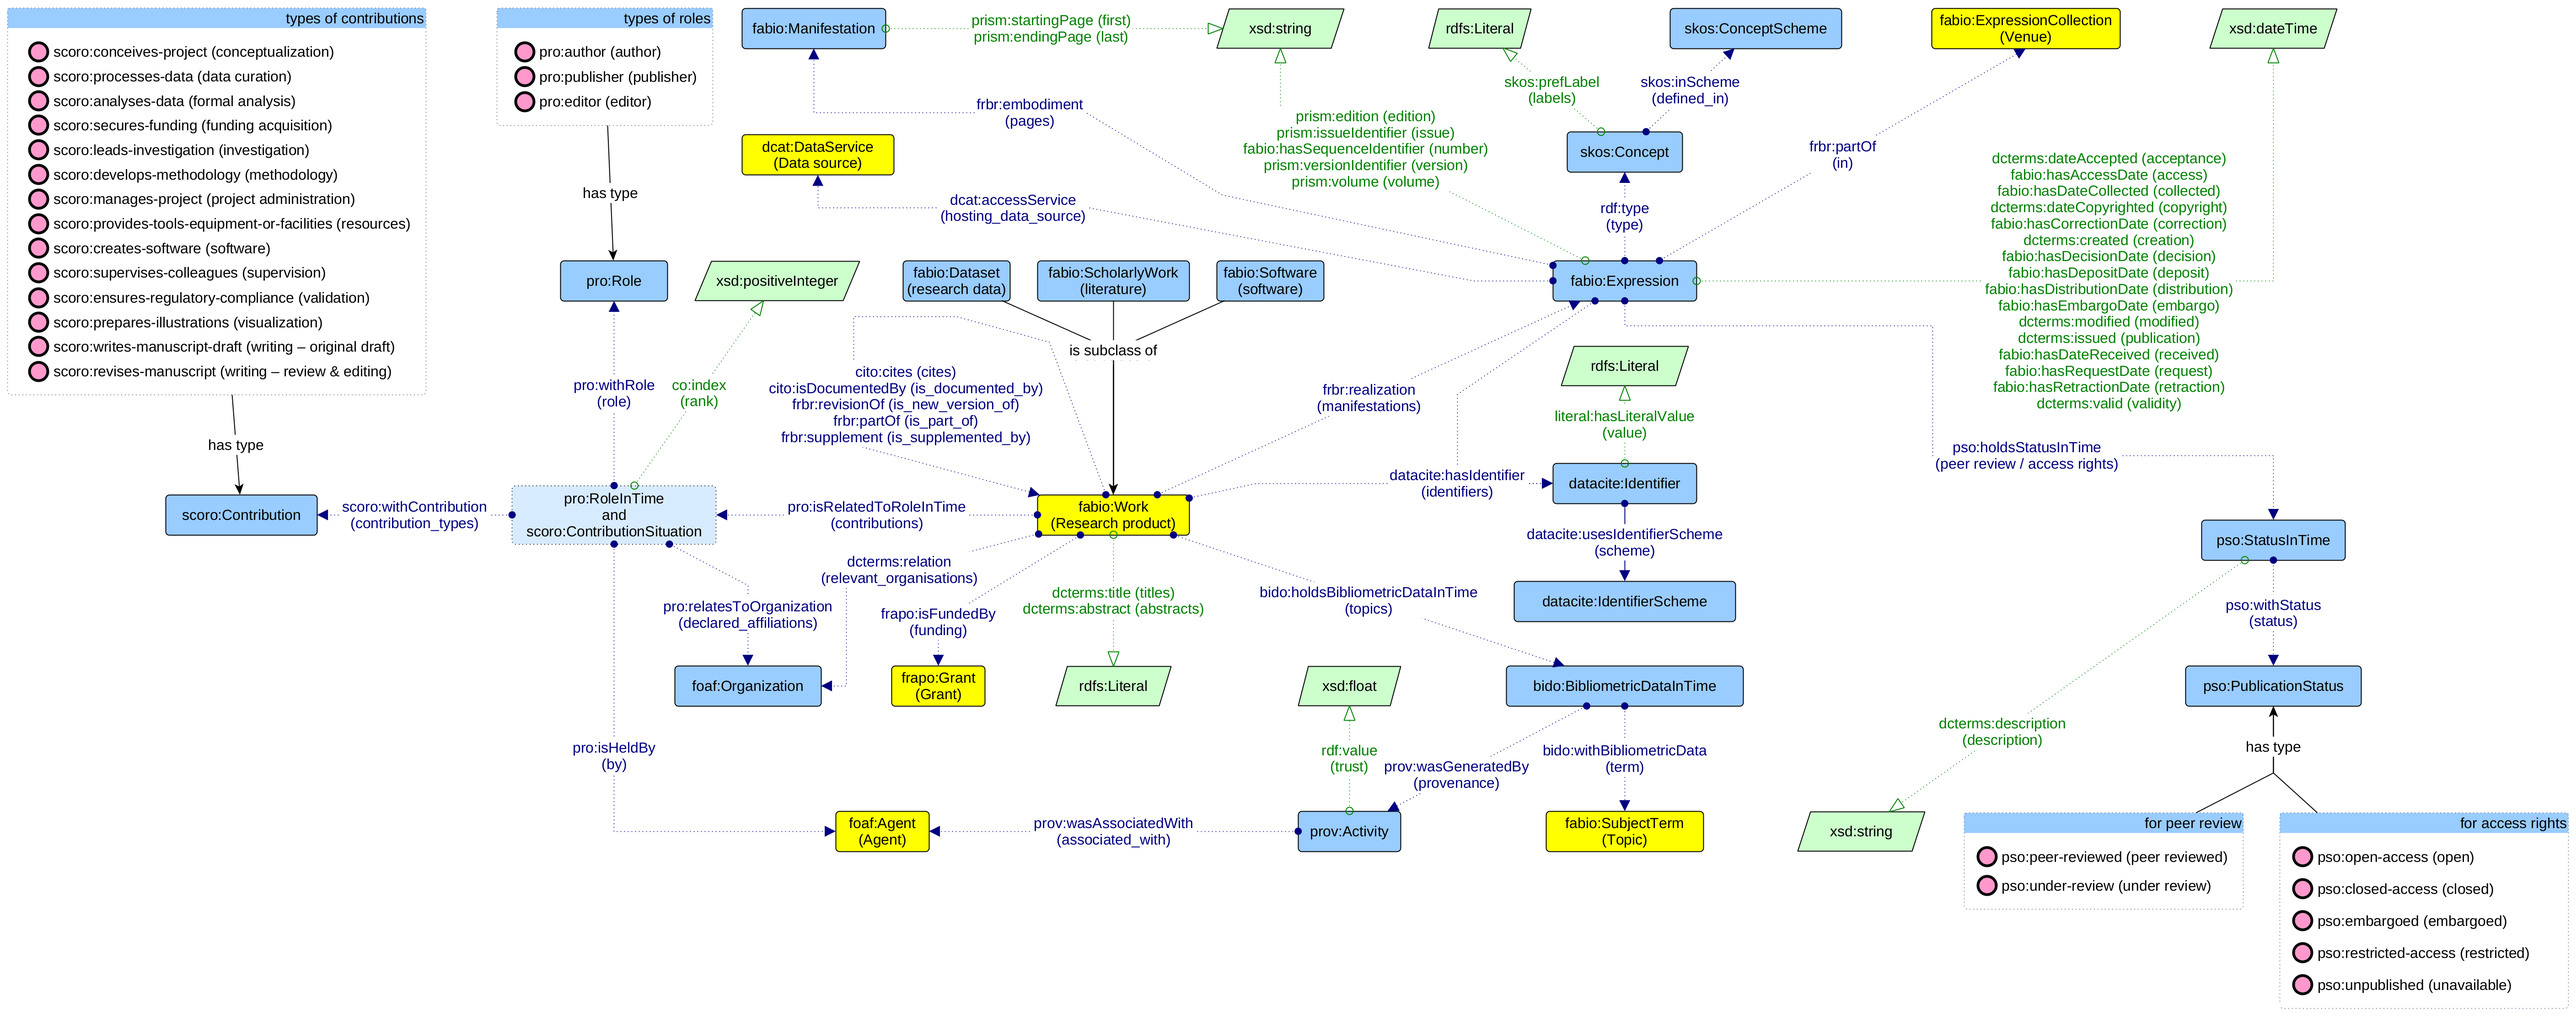
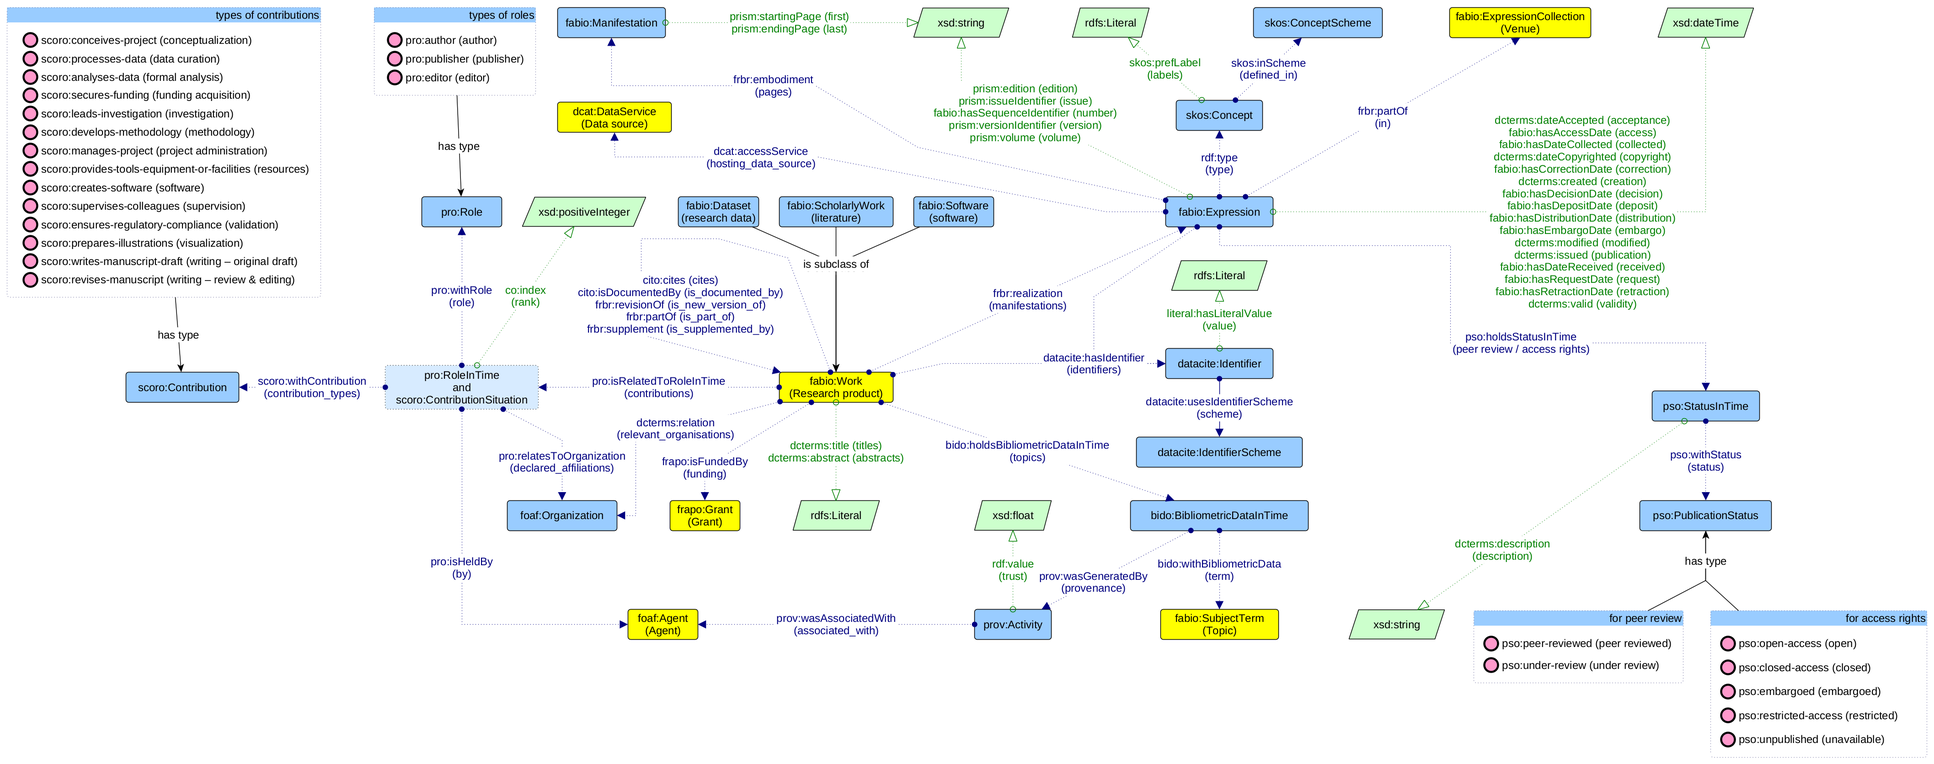
docs: update all ontology files in all formats to reflect the corrected frbr:partOf range from fabio:Expression to fabio:ExpressionCollection

diff --git a/ontology/1.1.0/research-product/skg-o.html b/ontology/1.1.0/research-product/skg-o.html
@@ -197,7 +197,7 @@ This section provides details for each class and property defined by SKG-O: rese
   <h3>fabio:Expression<sup class="type-c" title="class">c</sup> <span class="backlink"> back to <a href="#toc">ToC</a> or <a href="#classes">Class ToC</a> </span></h3>
   <p><strong>IRI:</strong> http://purl.org/spar/fabio/Expression</p>
   <div class="info">
-   <span class="markdown">The properties that can be used with this class are: * datacite:hasIdentifier -[0..N]-&gt; datacite:Identifier * dcat:accessService -[0..1]-&gt; dcat:DataService * dcterms:created -[0..N]-&gt; xsd:dateTime * dcterms:dateAccepted -[0..N]-&gt; xsd:dateTime * dcterms:dateCopyrighted -[0..N]-&gt; xsd:dateTime * dcterms:issued -[0..N]-&gt; xsd:dateTime * dcterms:modified -[0..N]-&gt; xsd:dateTime * dcterms:valid -[0..N]-&gt; xsd:dateTime * fabio:hasAccessDate -[0..N]-&gt; xsd:dateTime * fabio:hasCorrectionDate -[0..N]-&gt; xsd:dateTime * fabio:hasDateCollected -[0..N]-&gt; xsd:dateTime * fabio:hasDateReceived -[0..N]-&gt; xsd:dateTime * fabio:hasDecisionDate -[0..N]-&gt; xsd:dateTime * fabio:hasDepositDate -[0..N]-&gt; xsd:dateTime * fabio:hasDistributionDate -[0..N]-&gt; xsd:dateTime * fabio:hasEmbargoDate -[0..N]-&gt; xsd:dateTime * fabio:hasRequestDate -[0..N]-&gt; xsd:dateTime * fabio:hasRetractionDate -[0..N]-&gt; xsd:dateTime * fabio:hasSequenceIdentifier -[0..1]-&gt; xsd:string * frbr:embodiment -[0..1]-&gt; fabio:Manifestation * frbr:partOf -[0..1]-&gt; fabio:Expression * prism:edition -[0..1]-&gt; xsd:string * prism:issueIdentifier -[0..1]-&gt; xsd:string * prism:versionIdentifier -[0..1]-&gt; xsd:string * prism:volume -[0..1]-&gt; xsd:string * pso:holdsStatusInTime -[0..N]-&gt; pso:StatusInTime * rdf:type -[0..1]-&gt; skos:Concept</span>
+   <span class="markdown">The properties that can be used with this class are: * datacite:hasIdentifier -[0..N]-&gt; datacite:Identifier * dcat:accessService -[0..1]-&gt; dcat:DataService * dcterms:created -[0..N]-&gt; xsd:dateTime * dcterms:dateAccepted -[0..N]-&gt; xsd:dateTime * dcterms:dateCopyrighted -[0..N]-&gt; xsd:dateTime * dcterms:issued -[0..N]-&gt; xsd:dateTime * dcterms:modified -[0..N]-&gt; xsd:dateTime * dcterms:valid -[0..N]-&gt; xsd:dateTime * fabio:hasAccessDate -[0..N]-&gt; xsd:dateTime * fabio:hasCorrectionDate -[0..N]-&gt; xsd:dateTime * fabio:hasDateCollected -[0..N]-&gt; xsd:dateTime * fabio:hasDateReceived -[0..N]-&gt; xsd:dateTime * fabio:hasDecisionDate -[0..N]-&gt; xsd:dateTime * fabio:hasDepositDate -[0..N]-&gt; xsd:dateTime * fabio:hasDistributionDate -[0..N]-&gt; xsd:dateTime * fabio:hasEmbargoDate -[0..N]-&gt; xsd:dateTime * fabio:hasRequestDate -[0..N]-&gt; xsd:dateTime * fabio:hasRetractionDate -[0..N]-&gt; xsd:dateTime * fabio:hasSequenceIdentifier -[0..1]-&gt; xsd:string * frbr:embodiment -[0..1]-&gt; fabio:Manifestation * frbr:partOf -[0..1]-&gt; fabio:ExpressionCollection * prism:edition -[0..1]-&gt; xsd:string * prism:issueIdentifier -[0..1]-&gt; xsd:string * prism:versionIdentifier -[0..1]-&gt; xsd:string * prism:volume -[0..1]-&gt; xsd:string * pso:holdsStatusInTime -[0..N]-&gt; pso:StatusInTime * rdf:type -[0..1]-&gt; skos:Concept</span>
   </div>
   <dl class="definedBy">
    <dt>

diff --git a/ontology/current/research-product/skg-o.html b/ontology/current/research-product/skg-o.html
@@ -197,7 +197,7 @@ This section provides details for each class and property defined by SKG-O: rese
   <h3>fabio:Expression<sup class="type-c" title="class">c</sup> <span class="backlink"> back to <a href="#toc">ToC</a> or <a href="#classes">Class ToC</a> </span></h3>
   <p><strong>IRI:</strong> http://purl.org/spar/fabio/Expression</p>
   <div class="info">
-   <span class="markdown">The properties that can be used with this class are: * datacite:hasIdentifier -[0..N]-&gt; datacite:Identifier * dcat:accessService -[0..1]-&gt; dcat:DataService * dcterms:created -[0..N]-&gt; xsd:dateTime * dcterms:dateAccepted -[0..N]-&gt; xsd:dateTime * dcterms:dateCopyrighted -[0..N]-&gt; xsd:dateTime * dcterms:issued -[0..N]-&gt; xsd:dateTime * dcterms:modified -[0..N]-&gt; xsd:dateTime * dcterms:valid -[0..N]-&gt; xsd:dateTime * fabio:hasAccessDate -[0..N]-&gt; xsd:dateTime * fabio:hasCorrectionDate -[0..N]-&gt; xsd:dateTime * fabio:hasDateCollected -[0..N]-&gt; xsd:dateTime * fabio:hasDateReceived -[0..N]-&gt; xsd:dateTime * fabio:hasDecisionDate -[0..N]-&gt; xsd:dateTime * fabio:hasDepositDate -[0..N]-&gt; xsd:dateTime * fabio:hasDistributionDate -[0..N]-&gt; xsd:dateTime * fabio:hasEmbargoDate -[0..N]-&gt; xsd:dateTime * fabio:hasRequestDate -[0..N]-&gt; xsd:dateTime * fabio:hasRetractionDate -[0..N]-&gt; xsd:dateTime * fabio:hasSequenceIdentifier -[0..1]-&gt; xsd:string * frbr:embodiment -[0..1]-&gt; fabio:Manifestation * frbr:partOf -[0..1]-&gt; fabio:Expression * prism:edition -[0..1]-&gt; xsd:string * prism:issueIdentifier -[0..1]-&gt; xsd:string * prism:versionIdentifier -[0..1]-&gt; xsd:string * prism:volume -[0..1]-&gt; xsd:string * pso:holdsStatusInTime -[0..N]-&gt; pso:StatusInTime * rdf:type -[0..1]-&gt; skos:Concept</span>
+   <span class="markdown">The properties that can be used with this class are: * datacite:hasIdentifier -[0..N]-&gt; datacite:Identifier * dcat:accessService -[0..1]-&gt; dcat:DataService * dcterms:created -[0..N]-&gt; xsd:dateTime * dcterms:dateAccepted -[0..N]-&gt; xsd:dateTime * dcterms:dateCopyrighted -[0..N]-&gt; xsd:dateTime * dcterms:issued -[0..N]-&gt; xsd:dateTime * dcterms:modified -[0..N]-&gt; xsd:dateTime * dcterms:valid -[0..N]-&gt; xsd:dateTime * fabio:hasAccessDate -[0..N]-&gt; xsd:dateTime * fabio:hasCorrectionDate -[0..N]-&gt; xsd:dateTime * fabio:hasDateCollected -[0..N]-&gt; xsd:dateTime * fabio:hasDateReceived -[0..N]-&gt; xsd:dateTime * fabio:hasDecisionDate -[0..N]-&gt; xsd:dateTime * fabio:hasDepositDate -[0..N]-&gt; xsd:dateTime * fabio:hasDistributionDate -[0..N]-&gt; xsd:dateTime * fabio:hasEmbargoDate -[0..N]-&gt; xsd:dateTime * fabio:hasRequestDate -[0..N]-&gt; xsd:dateTime * fabio:hasRetractionDate -[0..N]-&gt; xsd:dateTime * fabio:hasSequenceIdentifier -[0..1]-&gt; xsd:string * frbr:embodiment -[0..1]-&gt; fabio:Manifestation * frbr:partOf -[0..1]-&gt; fabio:ExpressionCollection * prism:edition -[0..1]-&gt; xsd:string * prism:issueIdentifier -[0..1]-&gt; xsd:string * prism:versionIdentifier -[0..1]-&gt; xsd:string * prism:volume -[0..1]-&gt; xsd:string * pso:holdsStatusInTime -[0..N]-&gt; pso:StatusInTime * rdf:type -[0..1]-&gt; skos:Concept</span>
   </div>
   <dl class="definedBy">
    <dt>
